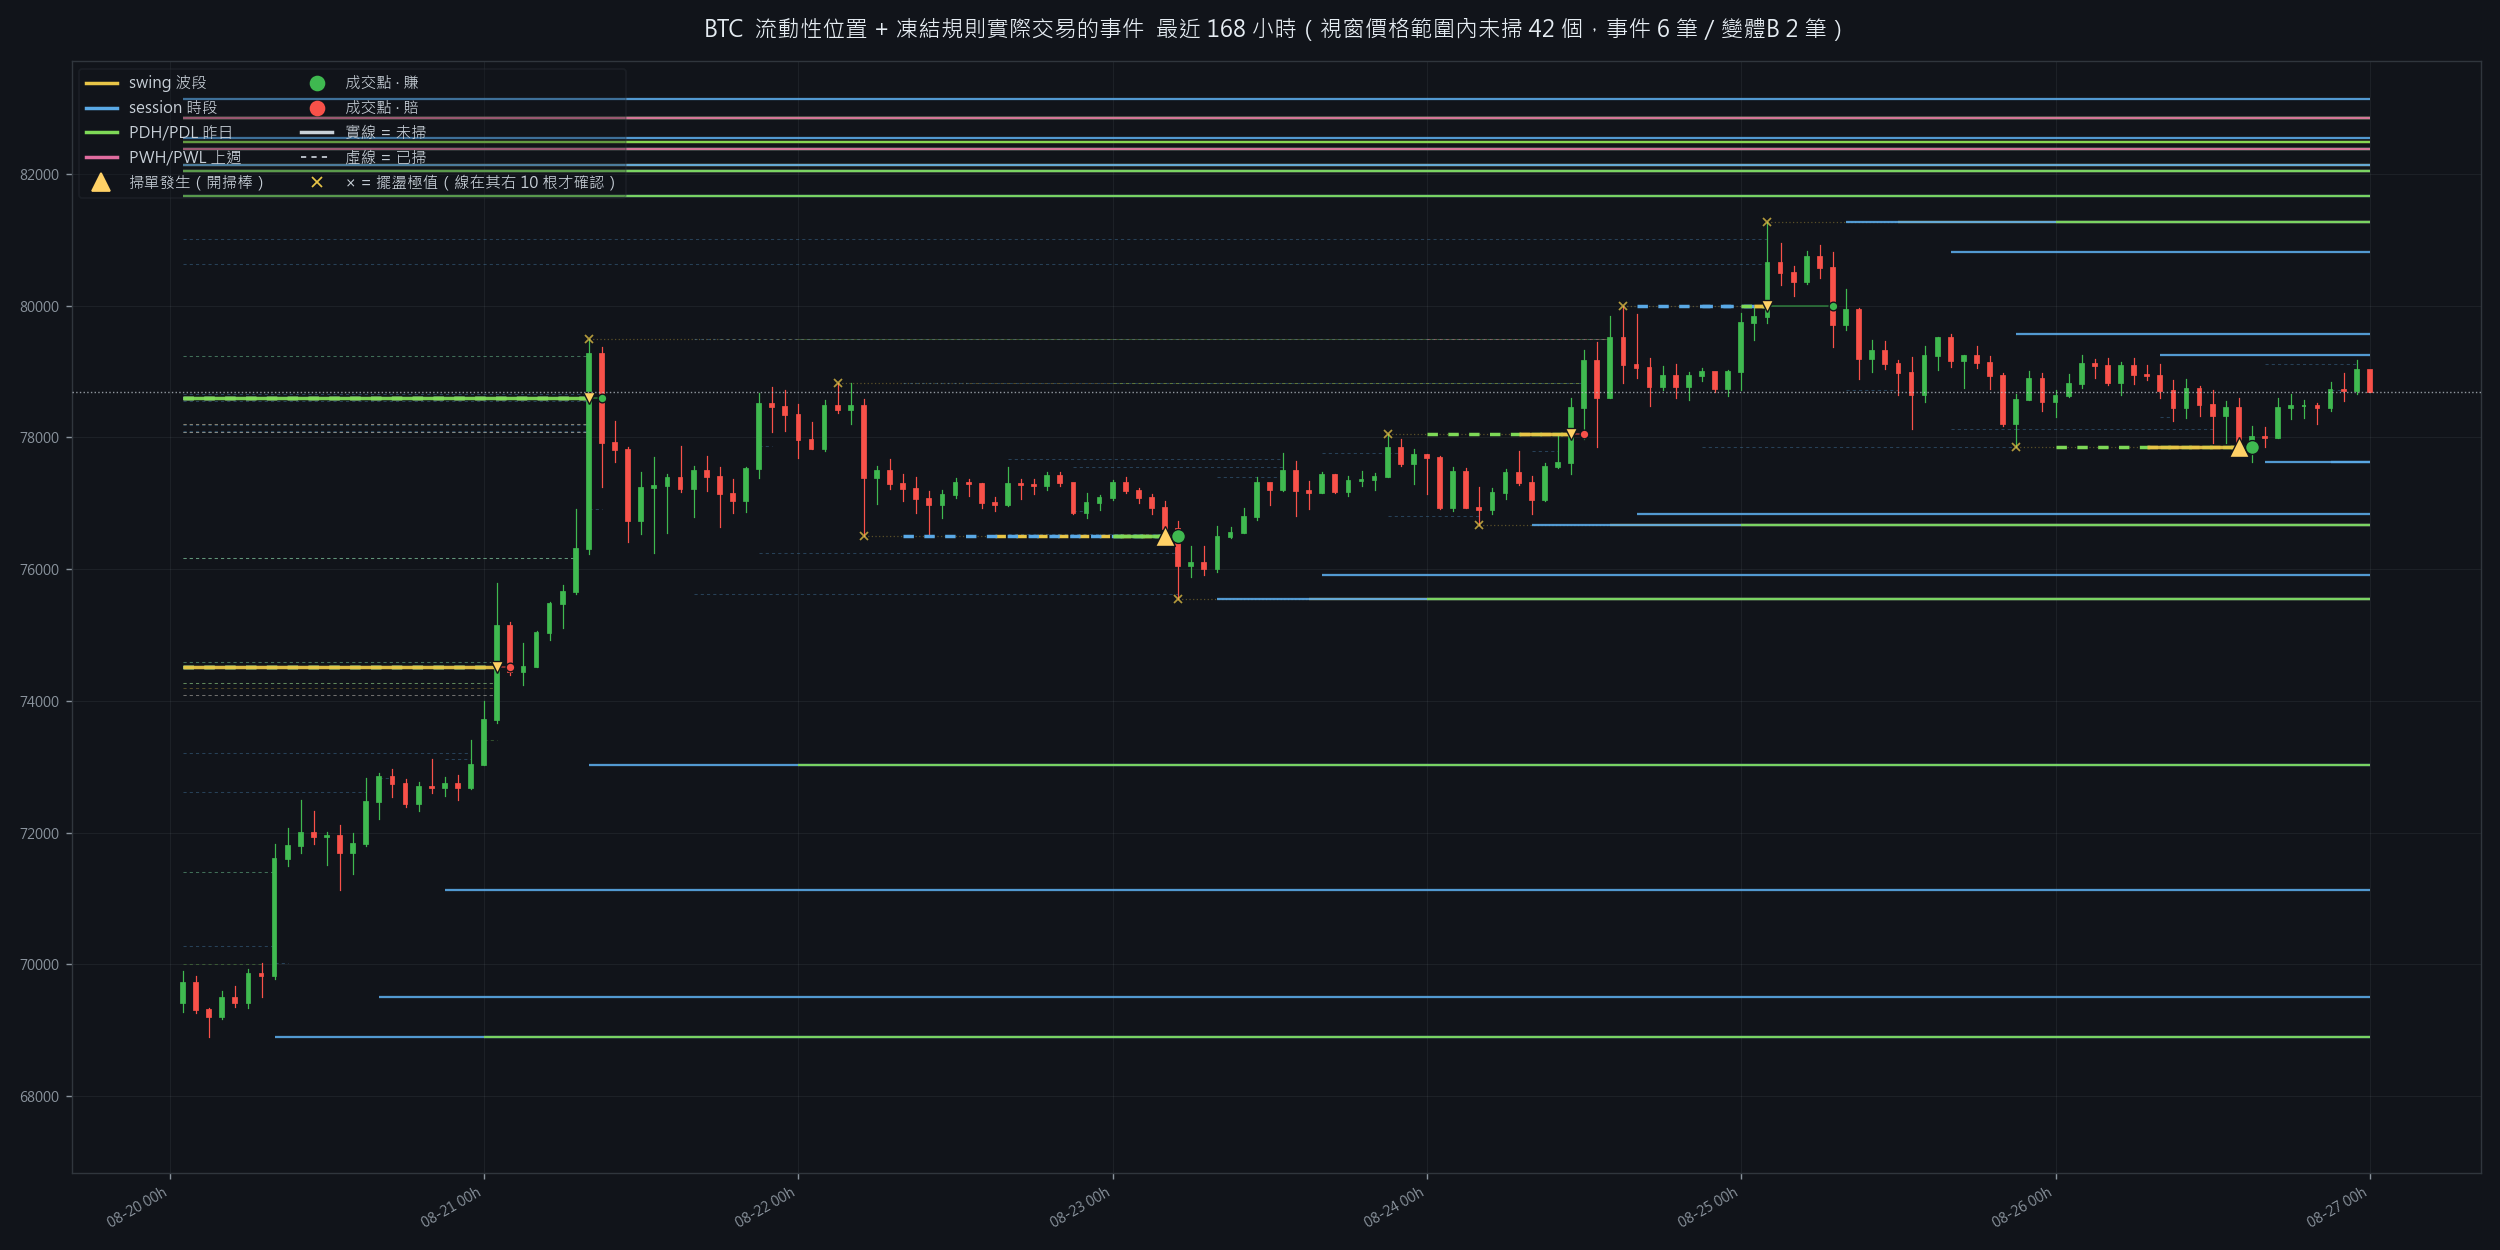
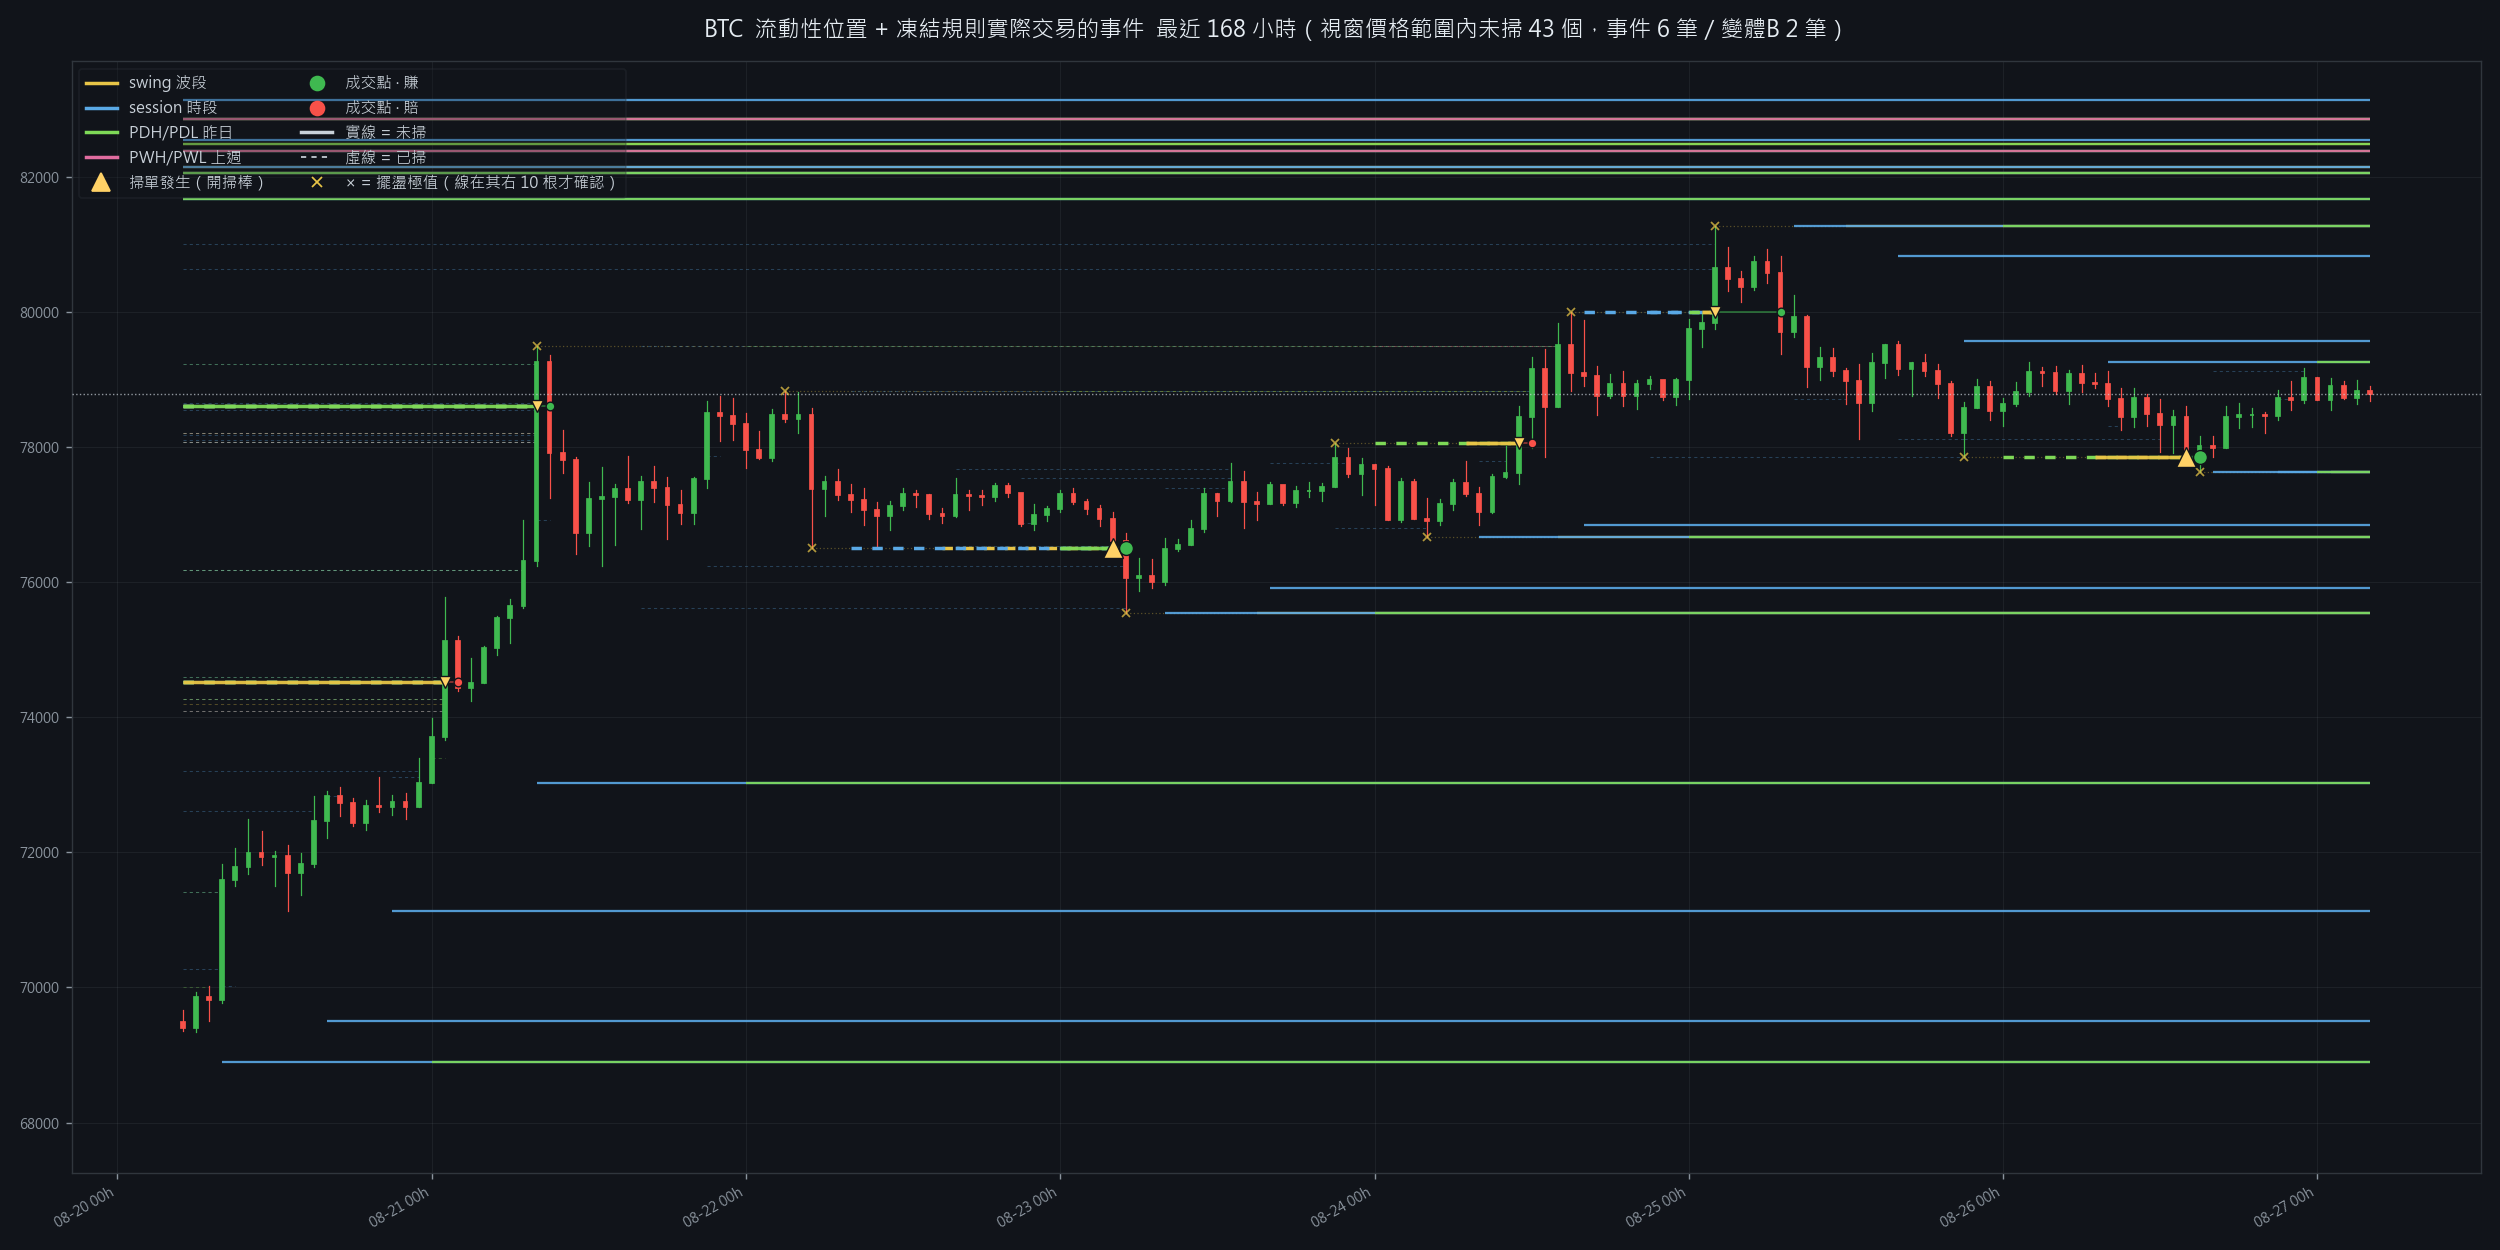
feat(prereg): 08-27 的五條結果進看板——含四個負結果與一個自己的錯
看板「已判決」從 5 條增為 10 條。全部列出而非只列有利的:
  §0.71  流動性是線不是區間(穿越深度單調,最淺那桶最好且停損率相同)
  §0.73  粗糙本身就是濾網(pivot 4/5/8/10/14,10 在峰值)
  §0.74  區域成交量權重無分離(勝率 +3pp 但報酬不動——解釋了這類指標為何
         在圖上好看)
  §0.71c 堆疊在四家族上未達標(方向一致但合併 +0.0178 < 0.03、家族 2/4)
  §0.72  **驗證圖濾掉 82%**——這是我自己的錯,列進去因為看板要標的是過程
         不是成果

只顯示存活者的看板是在對「過程」說謊,所以四個負結果和一個自己的儀器錯誤
都上牆,各自標著真正的狀態。

Claude-Session: https://claude.ai/code/session_01Kuyzdhamawu7GYDKU824Bm

diff --git a/research/prereg_publish.py b/research/prereg_publish.py
@@ -173,6 +173,35 @@ def build():
         },
     ]
     settled = [
+        # 2026-08-27 的一整輪:十二個候選、兩份 TradingView 指標、
+        # 依預註冊零個過關。全部列出——只顯示存活者的看板是在對「過程」說謊。
+        {"id": "0.71", "line": "流動性獵取", "title": "流動性是線,不是區間",
+         "verdict": "負結果", "tone": "warn",
+         "text": "穿越深度對報酬單調遞減:最淺那桶(0.00–0.03 ATR)最好,"
+                 "+0.1176/61.6%。而且它的停損率與其他桶相同(10.6% vs 10.3%)"
+                 "——不是「淺=安全」,是「淺=勝率真的高」。參考指標的 ±0.1% "
+                 "區間在 3.5 ATR 的停損尺度下是雜訊。"},
+        {"id": "0.73", "line": "流動性獵取", "title": "粗糙本身就是濾網",
+         "verdict": "已定案", "tone": "ok",
+         "text": "pivot 粒度 4/5/8/10/14 全測:meanR 單調遞增到 10、14 掉下來。"
+                 "大擺盪點承載的流動性比小擺盪點多,細化不是多拿樣本是稀釋"
+                 "好樣本。現行的 10 就在峰值上。"},
+        {"id": "0.74", "line": "流動性獵取", "title": "區域成交量權重無分離",
+         "verdict": "負結果", "tone": "warn",
+         "text": "給每個池一個「自形成以來累積了多少成交量」的權重,成立桶只差"
+                 "+0.0214R。但勝率單調上升 3pp 而報酬不動——重的區域比較常贏"
+                 "但贏得小。這解釋了為什麼這類指標在圖上看起來有用。"},
+        {"id": "0.71c", "line": "流動性獵取", "title": "堆疊:四家族上未達標",
+         "verdict": "未達標", "tone": "warn",
+         "text": "同一價位疊了幾種池,三個可測家族方向一致(疊得少較好),"
+                 "但合併只差 +0.0178R(需 >0.03)、家族 2/4(需 ≥3)。"
+                 "不因方向一致升級——那正是預註冊要擋的。稀釋來源是佔母體 49% "
+                 "的 session 池,而它是最「時鐘化」的一種。"},
+        {"id": "0.72", "line": "方法", "title": "驗證圖濾掉了 82%",
+         "verdict": "已修正", "tone": "ok",
+         "text": "七天流動性圖用「離現價 ±4%」當邊界,72 個 pivot 只畫出 13 個。"
+                 "操作者圈出三個「沒記錄到」的點,兩個是這個濾網造成的。"
+                 "驗證用的圖不可以過濾它要驗證的東西。已改用視窗自己的價格範圍。"},
         {"id": "0.59b", "line": "流動性獵取", "title": "主場定義修正",
          "verdict": "已定案", "tone": "ok",
          "text": "主場從「只有震盪」改為「震盪 ∪ 空頭趨勢」。原定義是從一個"
